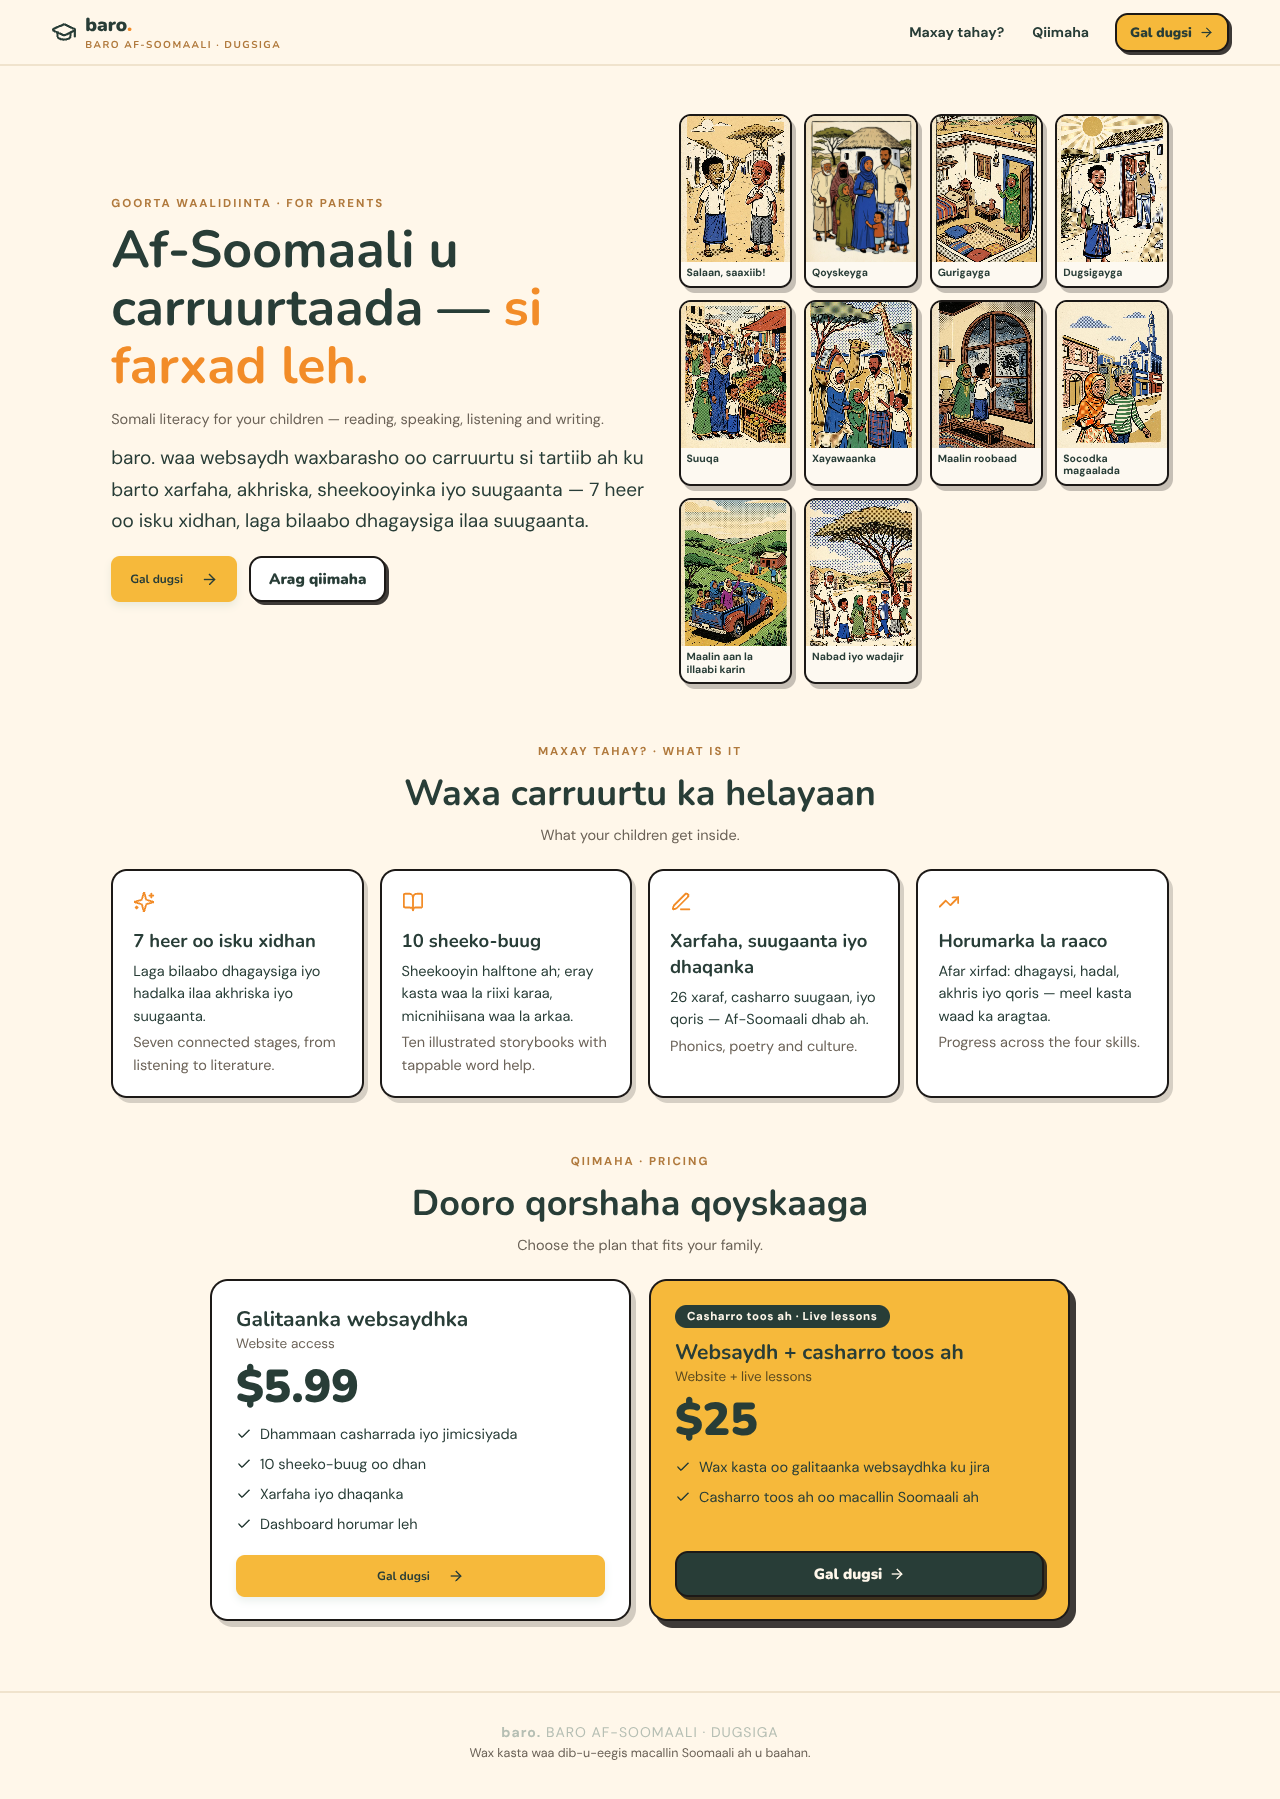
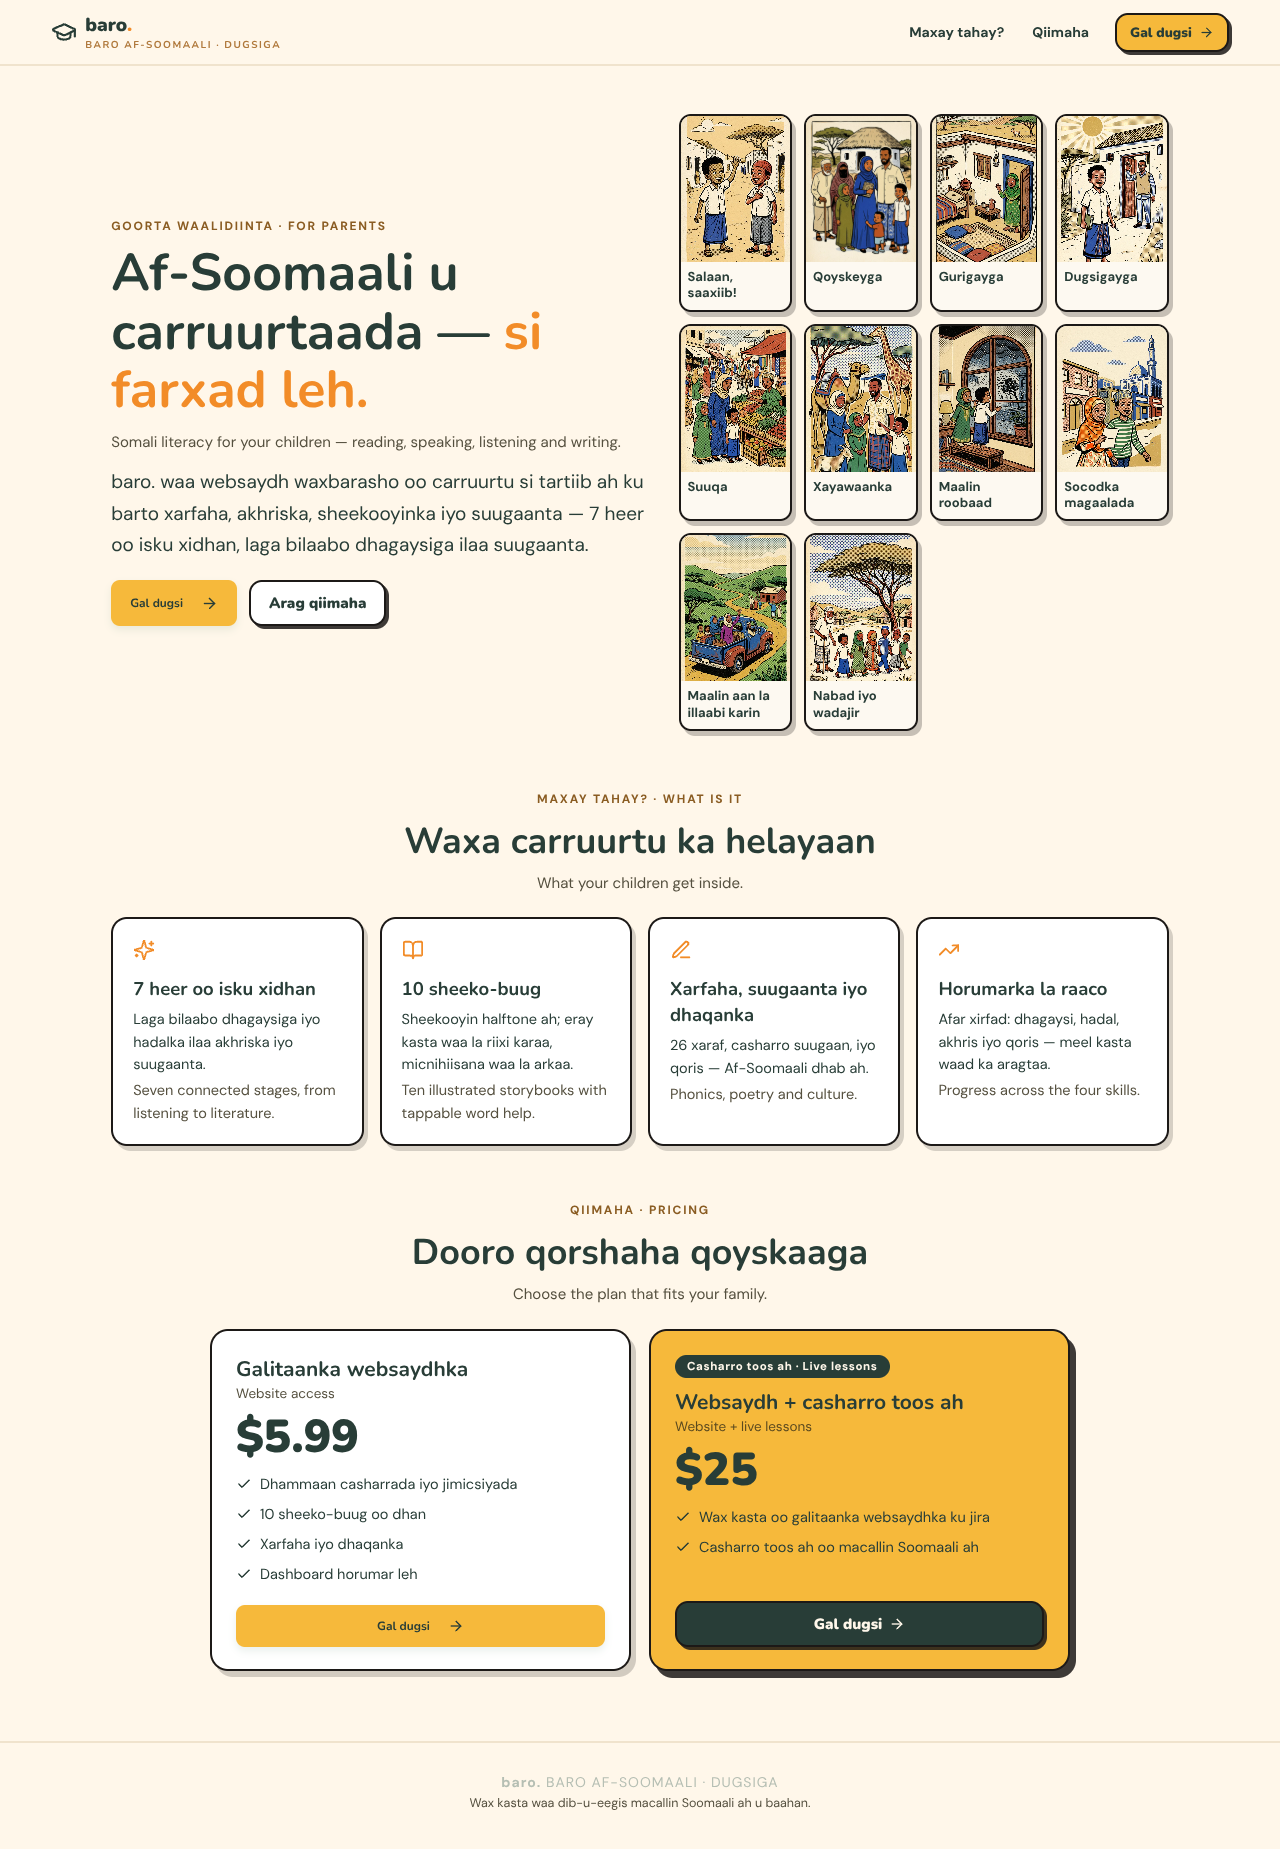
Parents page readability pass
- Sticky header is now fully opaque — page content no longer bleeds through it
- Book cover captions 10.5px/700 -> 13px/800 in full ink
- Section eyebrows darkened (#b0793c -> #8a5c22) and bumped to 12px
- English support lines and footer note darkened to #55503f

diff --git a/src/parents/parents.css b/src/parents/parents.css
@@ -4,7 +4,7 @@
 .ph-page h1, .ph-page h2, .ph-page h3 { font-family: 'Nunito', sans-serif; }
 
 /* Header */
-.ph-header { position: sticky; top: 0; z-index: 30; display: flex; align-items: center; gap: 14px; flex-wrap: wrap; padding: 12px max(16px, 4vw); background: rgba(255, 247, 234, 0.94); border-bottom: 2px solid #f0e3cd; }
+.ph-header { position: sticky; top: 0; z-index: 30; display: flex; align-items: center; gap: 14px; flex-wrap: wrap; padding: 12px max(16px, 4vw); background: #fff7ea; border-bottom: 2px solid #f0e3cd; }
 .ph-brand { display: flex; align-items: center; gap: 8px; font-family: 'Nunito', sans-serif; font-weight: 900; font-size: 19px; color: #283d37; text-decoration: none; }
 .ph-brand small { display: block; font-size: 10px; letter-spacing: 1.5px; color: #b0793c; font-weight: 700; }
 .ph-dot { color: #f28c28; }
@@ -23,19 +23,19 @@
 
 /* Hero */
 .ph-hero { display: grid; grid-template-columns: 1.1fr 1fr; gap: 28px; align-items: center; max-width: 1160px; margin: 0 auto; padding: clamp(26px, 6vh, 64px) max(16px, 4vw) 20px; }
-.ph-eyebrow { font-size: 11.5px; letter-spacing: 2px; font-weight: 800; color: #b0793c; margin: 0 0 10px; }
+.ph-eyebrow { font-size: 12px; letter-spacing: 1.8px; font-weight: 800; color: #8a5c22; margin: 0 0 10px; }
 .ph-eyebrow.center { text-align: center; }
 .ph-hero h1 { font-size: clamp(30px, 5vw, 52px); line-height: 1.12; margin: 0 0 12px; }
 .ph-hero h1 em { font-style: normal; color: #f28c28; }
 .ph-lead { font-size: clamp(16px, 1.6vw, 19px); line-height: 1.65; margin: 12px 0 20px; max-width: 54ch; }
-.ph-sub { color: #6b6257; font-size: 14.5px; line-height: 1.55; margin: 4px 0; }
+.ph-sub { color: #55503f; font-size: 15px; line-height: 1.55; margin: 4px 0; }
 .ph-actions { display: flex; gap: 12px; flex-wrap: wrap; }
 
 /* Covers collage */
 .ph-covers { display: grid; grid-template-columns: repeat(auto-fill, minmax(min(108px, 100%), 1fr)); gap: 12px; }
 .ph-cover { margin: 0; border: 2.5px solid #1c1917; border-radius: 12px; overflow: hidden; background: #fdf9f1; box-shadow: 4px 5px 0 rgba(28, 25, 23, 0.25); }
 .ph-cover img { display: block; width: 100%; aspect-ratio: 3 / 4; object-fit: cover; }
-.ph-cover figcaption { font-size: 10.5px; font-weight: 700; padding: 5px 6px 6px; line-height: 1.2; }
+.ph-cover figcaption { font-size: 13px; font-weight: 800; color: #283d37; padding: 7px 7px 8px; line-height: 1.25; }
 
 /* Sections */
 .ph-section { max-width: 1160px; margin: 0 auto; padding: clamp(28px, 5vh, 52px) max(16px, 4vw); }
@@ -56,7 +56,7 @@
 .ph-plan.featured { background: #f6b93b; box-shadow: 6px 7px 0 rgba(28, 25, 23, 0.85); }
 .ph-badge { align-self: flex-start; margin: 0 0 10px; background: #283d37; color: #fff7ea; border-radius: 999px; padding: 4px 12px; font-size: 11.5px; font-weight: 800; letter-spacing: 0.6px; }
 .ph-plan h3 { font-size: 21px; margin: 0 0 2px; }
-.ph-plan-en { color: #6b6257; font-size: 13.5px; margin: 0 0 12px; }
+.ph-plan-en { color: #55503f; font-size: 13.5px; margin: 0 0 12px; }
 .ph-plan.featured .ph-plan-en { color: #5c4a1e; }
 .ph-price { font-family: 'Nunito', sans-serif; font-size: 46px; font-weight: 900; margin: 0 0 14px; line-height: 1; }
 .ph-plan ul { list-style: none; margin: 0 0 20px; padding: 0; display: grid; gap: 9px; }
@@ -67,7 +67,7 @@
 /* Footer */
 .ph-footer { text-align: center; padding: 26px 16px 34px; border-top: 2px solid #f0e3cd; }
 .ph-footer p { margin: 4px 0; font-size: 14px; letter-spacing: 1px; }
-.ph-note { color: #6b6257; font-size: 12.5px !important; letter-spacing: 0 !important; }
+.ph-note { color: #55503f; font-size: 12.5px !important; letter-spacing: 0 !important; }
 
 @media (max-width: 860px) {
   .ph-hero { grid-template-columns: 1fr; }
